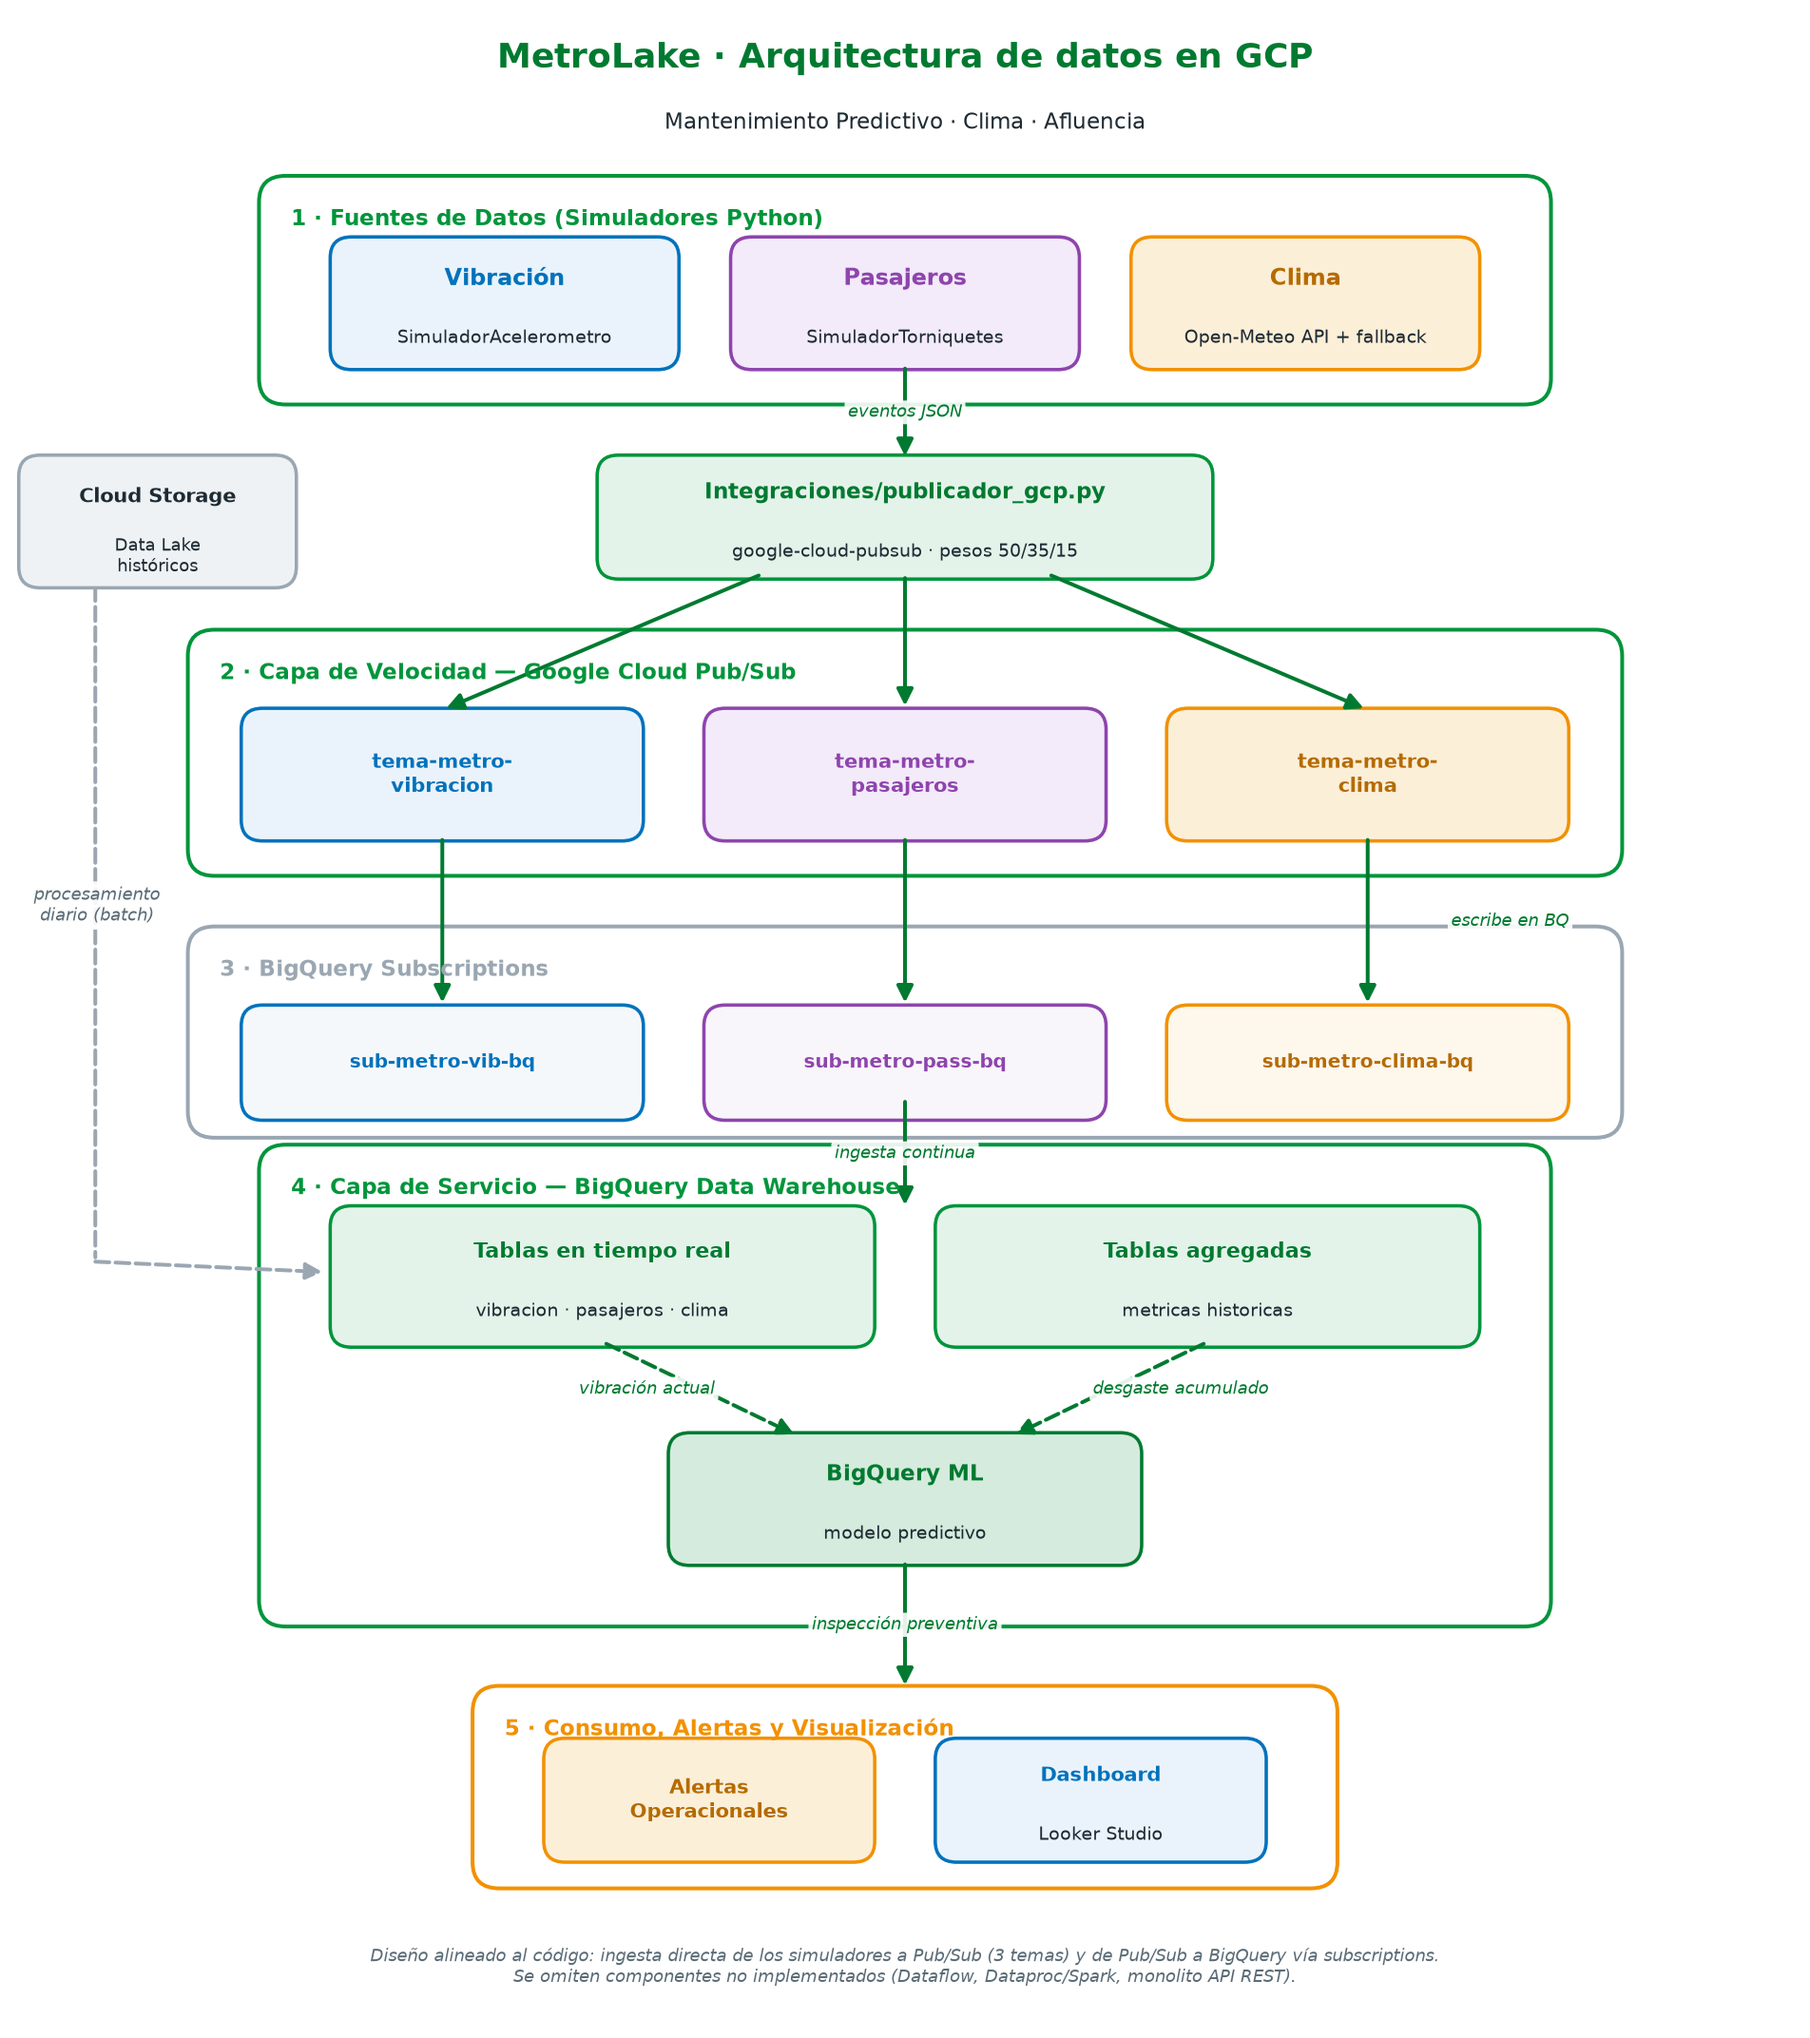
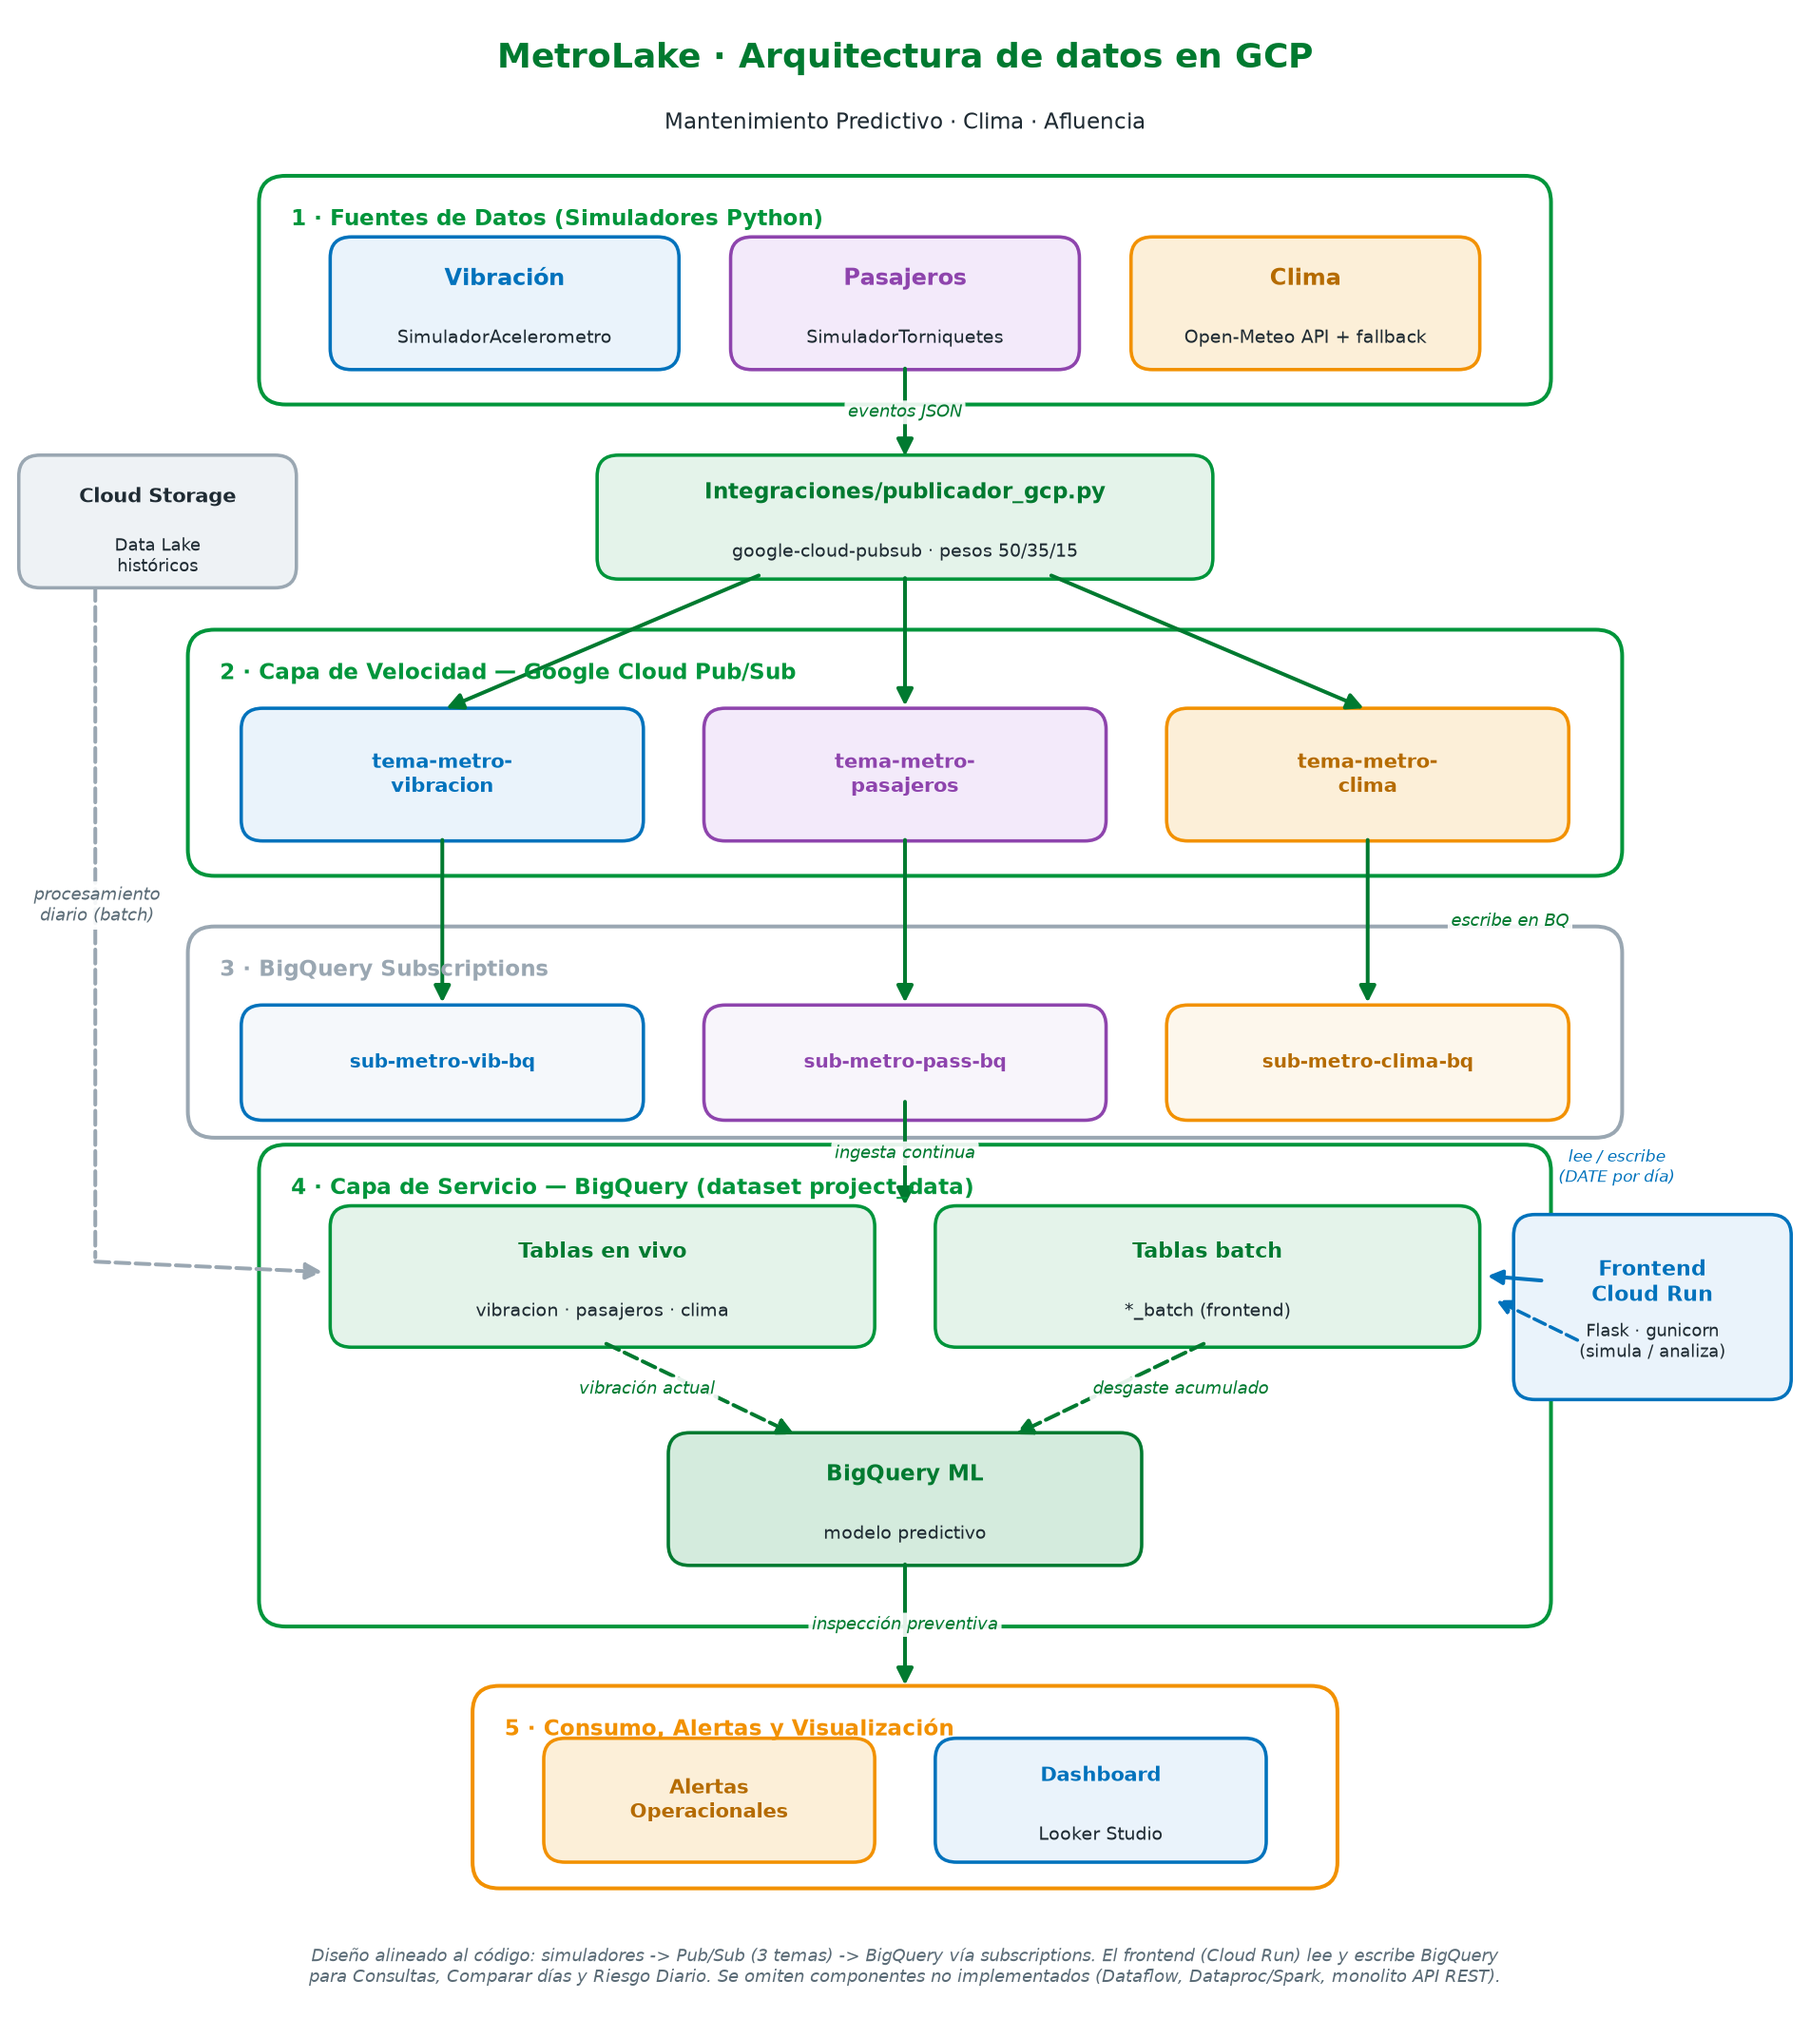
:art: actualizar diagrama: frontend en Cloud Run leyendo/escribiendo BigQuery
- Agrega el Frontend (Cloud Run, Flask+gunicorn) conectado a BigQuery
- Tablas 'en vivo' (pipeline Pub/Sub) y 'batch' (escritas por el frontend)
- Dataset project_data; agrupacion por DATE para Consultas/Comparar/Riesgo
- Nota de diseno actualizada al flujo real

diff --git a/docs/generar_arquitectura.py b/docs/generar_arquitectura.py
@@ -107,11 +107,11 @@ flecha(50, 68, 50, 58.2, "", VERDE_OSC)
 flecha(76, 68, 76, 58.2, "escribe en BQ", VERDE_OSC, off=8)
 
 # ===== 5. Serving layer: BigQuery =====
-contenedor(14, 23, 72, 27, "4 · Capa de Servicio — BigQuery Data Warehouse", VERDE)
-caja(18, 39, 30, 7.5, "Tablas en tiempo real",
+contenedor(14, 23, 72, 27, "4 · Capa de Servicio — BigQuery (dataset project_data)", VERDE)
+caja(18, 39, 30, 7.5, "Tablas en vivo",
      "vibracion · pasajeros · clima", VERDE, "#e4f3ea", VERDE_OSC, 10)
-caja(52, 39, 30, 7.5, "Tablas agregadas",
-     "metricas historicas", VERDE, "#e4f3ea", VERDE_OSC, 10)
+caja(52, 39, 30, 7.5, "Tablas batch",
+     "*_batch (frontend)", VERDE, "#e4f3ea", VERDE_OSC, 10)
 caja(37, 26.5, 26, 7, "BigQuery ML",
      "modelo predictivo", VERDE_OSC, "#d4ebdd", VERDE_OSC, 10.5)
 flecha(50, 53, 50, 46.6, "ingesta continua", VERDE_OSC)
@@ -132,6 +132,22 @@ ax.text(4.6, 64, "procesamiento\ndiario (batch)", ha="center", va="center",
         fontsize=8, color="#5a6b76", style="italic", zorder=4,
         bbox=dict(boxstyle="round,pad=0.2", fc="white", ec="none", alpha=0.9))
 
+# ===== Frontend en Cloud Run — columna lateral derecha =====
+# Lee y escribe BigQuery (Consultas, Comparar dias, Riesgo Diario).
+caja(84.5, 36, 15, 10, "Frontend\nCloud Run", "Flask · gunicorn\n(simula / analiza)",
+     AZUL, "#eaf3fb", AZUL, 10, 8)
+# Flecha de lectura: BigQuery -> Frontend
+ax.add_patch(FancyArrowPatch(
+    (86, 42.5), (82.5, 42.8), arrowstyle="-|>", mutation_scale=14, linewidth=1.8,
+    color=AZUL, zorder=3, shrinkA=2, shrinkB=2))
+ax.text(90, 49, "lee / escribe\n(DATE por día)", ha="center", va="center",
+        fontsize=7.5, color=AZUL, style="italic", zorder=4,
+        bbox=dict(boxstyle="round,pad=0.2", fc="white", ec="none", alpha=0.9))
+# Flecha de escritura: Frontend -> tablas batch
+ax.add_patch(FancyArrowPatch(
+    (88, 39), (83, 41.5), arrowstyle="-|>", mutation_scale=14, linewidth=1.6,
+    color=AZUL, linestyle="--", zorder=3, shrinkA=2, shrinkB=2))
+
 # ===== 6. Consumo =====
 contenedor(26, 8, 48, 11, "5 · Consumo, Alertas y Visualización", NARANJA)
 caja(30, 9.5, 18, 6.5, "Alertas\nOperacionales", "", NARANJA, "#fcefd8", "#b56b00", 9.5)
@@ -140,9 +156,9 @@ flecha(50, 26.5, 50, 19.1, "inspección preventiva", VERDE_OSC)
 
 # ===== Nota de diseno =====
 ax.text(50, 3.2,
-        "Diseño alineado al código: ingesta directa de los simuladores a Pub/Sub (3 temas) "
-        "y de Pub/Sub a BigQuery vía subscriptions.\nSe omiten componentes no implementados "
-        "(Dataflow, Dataproc/Spark, monolito API REST).",
+        "Diseño alineado al código: simuladores -> Pub/Sub (3 temas) -> BigQuery vía subscriptions. "
+        "El frontend (Cloud Run) lee y escribe BigQuery\npara Consultas, Comparar días y Riesgo Diario. "
+        "Se omiten componentes no implementados (Dataflow, Dataproc/Spark, monolito API REST).",
         ha="center", va="center", fontsize=8, color="#5a6b76", style="italic")
 
 plt.tight_layout()
